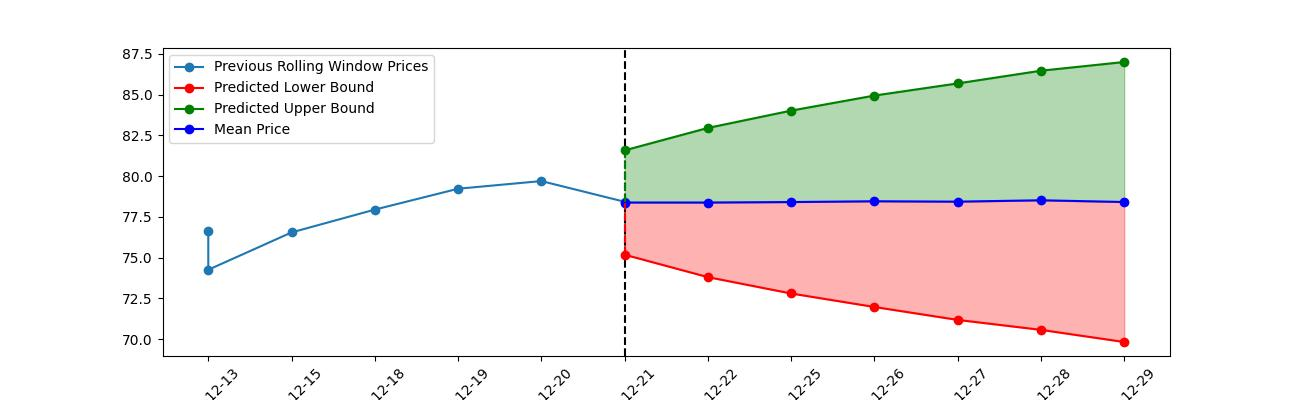
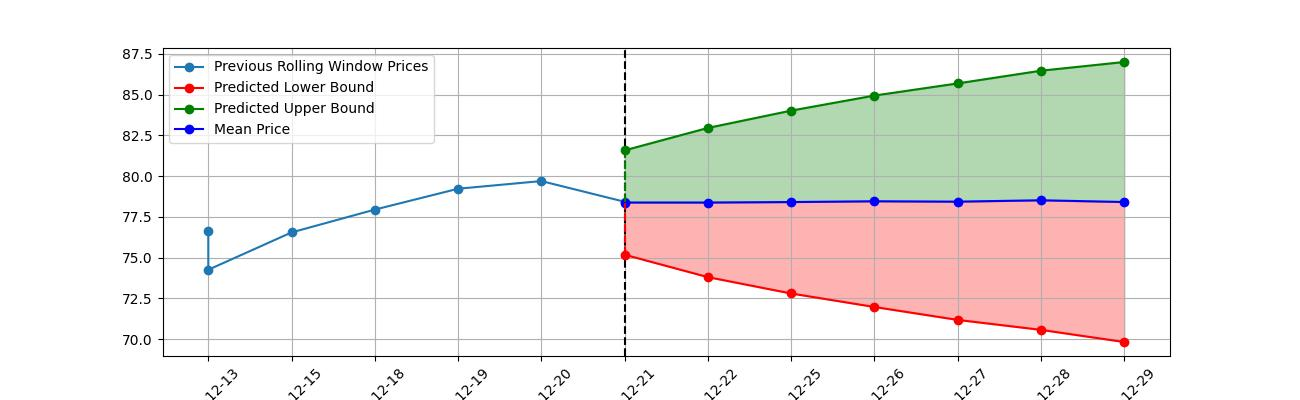
file updated

diff --git a/templates/index.html b/templates/index.html
@@ -131,35 +131,36 @@
                             <td>
                                 <table>
                                     <tr>
-                                        <h2> WEEK FORECAST</h2>
-                                        <th>Date</th>
-                                        <th>Predicted Lower Bound</th>
-                                        <th>Predicted Upper Bound</th>
-                                        <th> Mean Prediction</th>
+                                        <h2> FORECAST : PRICE MOVEMENT </h2>
                                     </tr>
-                                            {% for prediction in predictions %}
                                     <tr>
-                                            <td class="date-cell">{{ prediction.Date }}</td>
-                                            <td class="price-cell" style="color: red;">{{'%.3f'|format(prediction.Lower_Bound)}}</td>
-                                            <td class="price-cell" style="color: green;">{{'%.3f'|format(prediction.Upper_Bound)}}</td>
-                                            <td class="price-cell">{{'%.3f'|format(prediction.Mean_Price)}}</td>
+                                        <td>
+                                            <img id="plot-image-preds" src="{{combine_plot}}" alt="Pred_Price Plot">
+                                        </td>
+
                                     </tr>
-                                            {% endfor %}
                                 </table>
+
                             </td>
                         </tr>
                      </table>
                     <table>
                         <tr>
-                            <h2> FORECAST : PRICE MOVEMENT </h2>
+                            <h2> WEEK FORECAST</h2>
+                            <th>Date</th>
+                            <th>Predicted Lower Bound</th>
+                            <th>Predicted Upper Bound</th>
+                            <th> Mean Prediction</th>
                         </tr>
+                        {% for prediction in predictions %}
                         <tr>
-                            <td>
-                                <img id="plot-image-preds" src="{{combine_plot}}" alt="Pred_Price Plot">
-                            </td>
-
+                            <td class="date-cell">{{ prediction.Date }}</td>
+                            <td class="price-cell" style="color: red;">{{'%.3f'|format(prediction.Lower_Bound)}}</td>
+                            <td class="price-cell" style="color: green;">{{'%.3f'|format(prediction.Upper_Bound)}}</td>
+                            <td class="price-cell">{{'%.3f'|format(prediction.Mean_Price)}}</td>
                         </tr>
-                    </table>
+                             {% endfor %}
+                        </table>
              <br><br>
             <input type="submit" value="Forecast"> <br>
         </fieldset>

diff --git a/Support_module_dir/support_function.py b/Support_module_dir/support_function.py
@@ -54,7 +54,8 @@ def predict_function(trained_model, dataset):
             last_date = dataset.index[-2]
 
             # Generate a new DataFrame with the dates for the next x number of steps
-            new_dates = pd.date_range(start=last_date, periods=PERIODS, freq='B')[1:]  # 'B' stands for business day), [1:] Exclude the last_date
+            new_dates = pd.date_range(start=last_date, periods=PERIODS, freq='B')[
+                        1:]  # 'B' stands for business day), [1:] Exclude the last_date
 
             # Print or use the confidence interval
             predict_frame = pd.DataFrame({"Date": new_dates, "Lower_Bound": confidence_interval.iloc[:, 0],
@@ -66,11 +67,11 @@ def predict_function(trained_model, dataset):
 
 
 # function for plot prediction and rolling window(previous price)
-def combine_plot_function(dataframe_instance, predictions_instance):  # plot function for prediction data
+def combine_plot_function(dataframe_instance, predictions_instance):
     try:
         plt.figure(figsize=(13, 4))
 
-        # Plotting the existing DataFrame
+        # Scatter plot for the existing DataFrame
         plt.plot(dataframe_instance['Date'],
                  dataframe_instance['Price'],
                  marker='o',
@@ -82,7 +83,7 @@ def combine_plot_function(dataframe_instance, predictions_instance):  # plot fun
                     linestyle='--',
                     label=None)
 
-        # Plotting the prediction DataFrame after the dashed line
+        # Scatter plots for the prediction DataFrame after the dashed line
         plt.plot(predictions_instance['Date'],
                  predictions_instance['Lower_Bound'],
                  marker='o',
@@ -126,17 +127,19 @@ def combine_plot_function(dataframe_instance, predictions_instance):  # plot fun
                  [dataframe_instance['Price'].iloc[-1], predictions_instance['Mean_Price'].iloc[0]],
                  linestyle='--', color='blue')  # Separate line for Mean Price
 
+        # Setting grid
+        plt.grid(True)
+
         # Setting directory and path for plot Images
         os.makedirs(PLOT_DIR, exist_ok=True)
-        plot_path = os.path.join(PLOT_DIR,
-                                 COMBINE_PLOT)    # Save the plot to a static directory called form artifact module
+        plot_path = os.path.join(PLOT_DIR, COMBINE_PLOT)
         plt.legend()
         plt.xticks(rotation=45)
         plt.savefig(plot_path)
         plt.close()
 
     except Exception as e:
-        raise e
+        print(f"Error in combine_plot_function: {e}")
 
 
 # Creating a function to plot time series data
@@ -181,4 +184,3 @@ class DateTimeFunctionClass:
 
     def current_time(self):
         return self.curr_time
-
